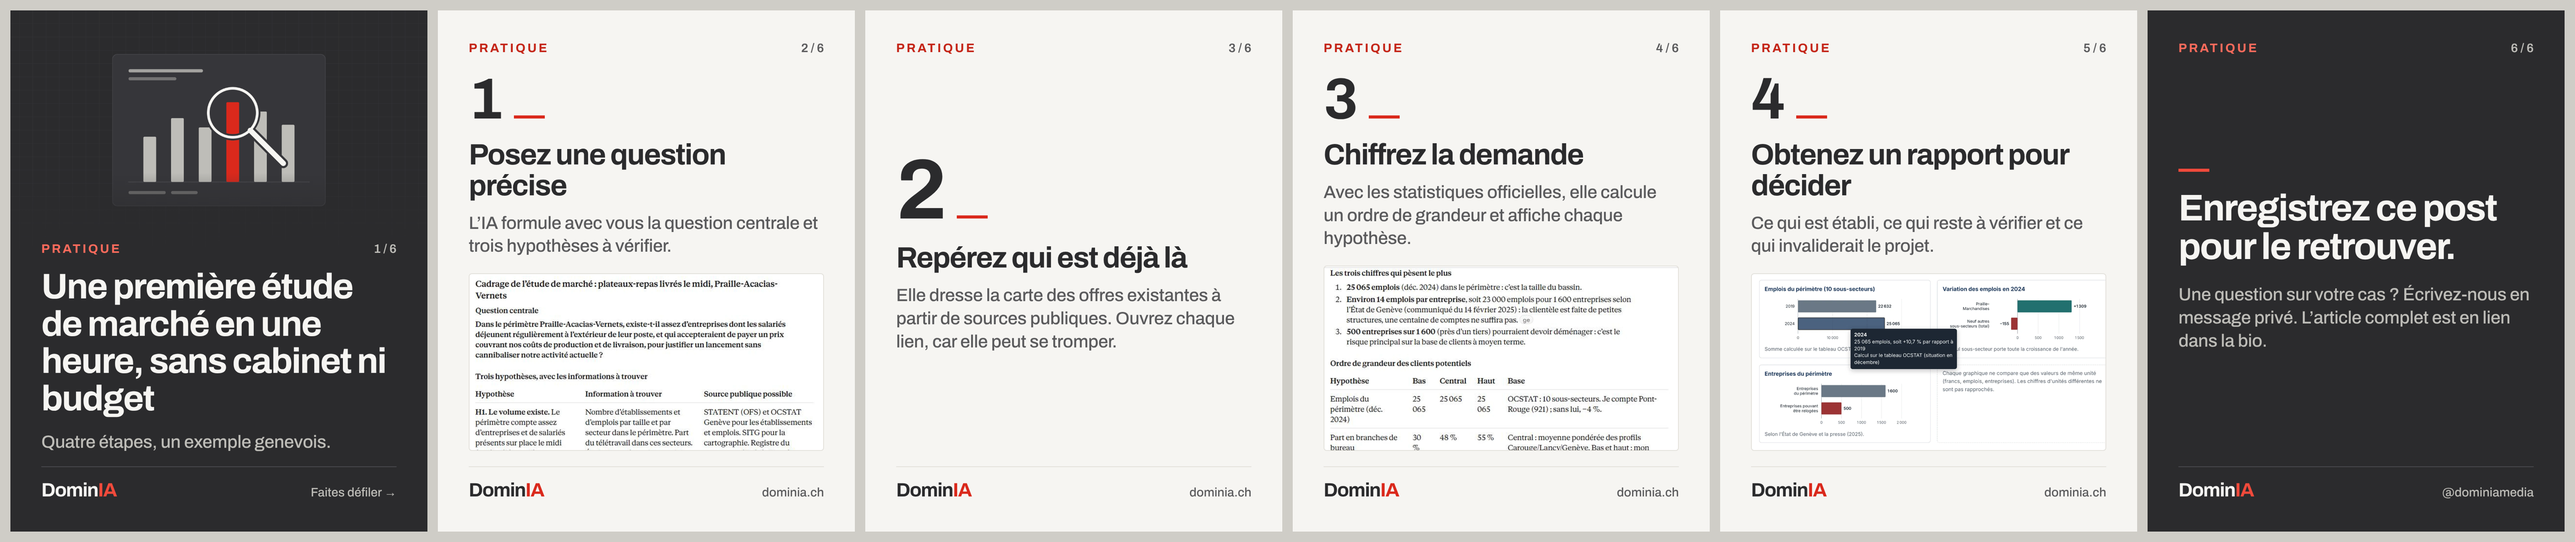
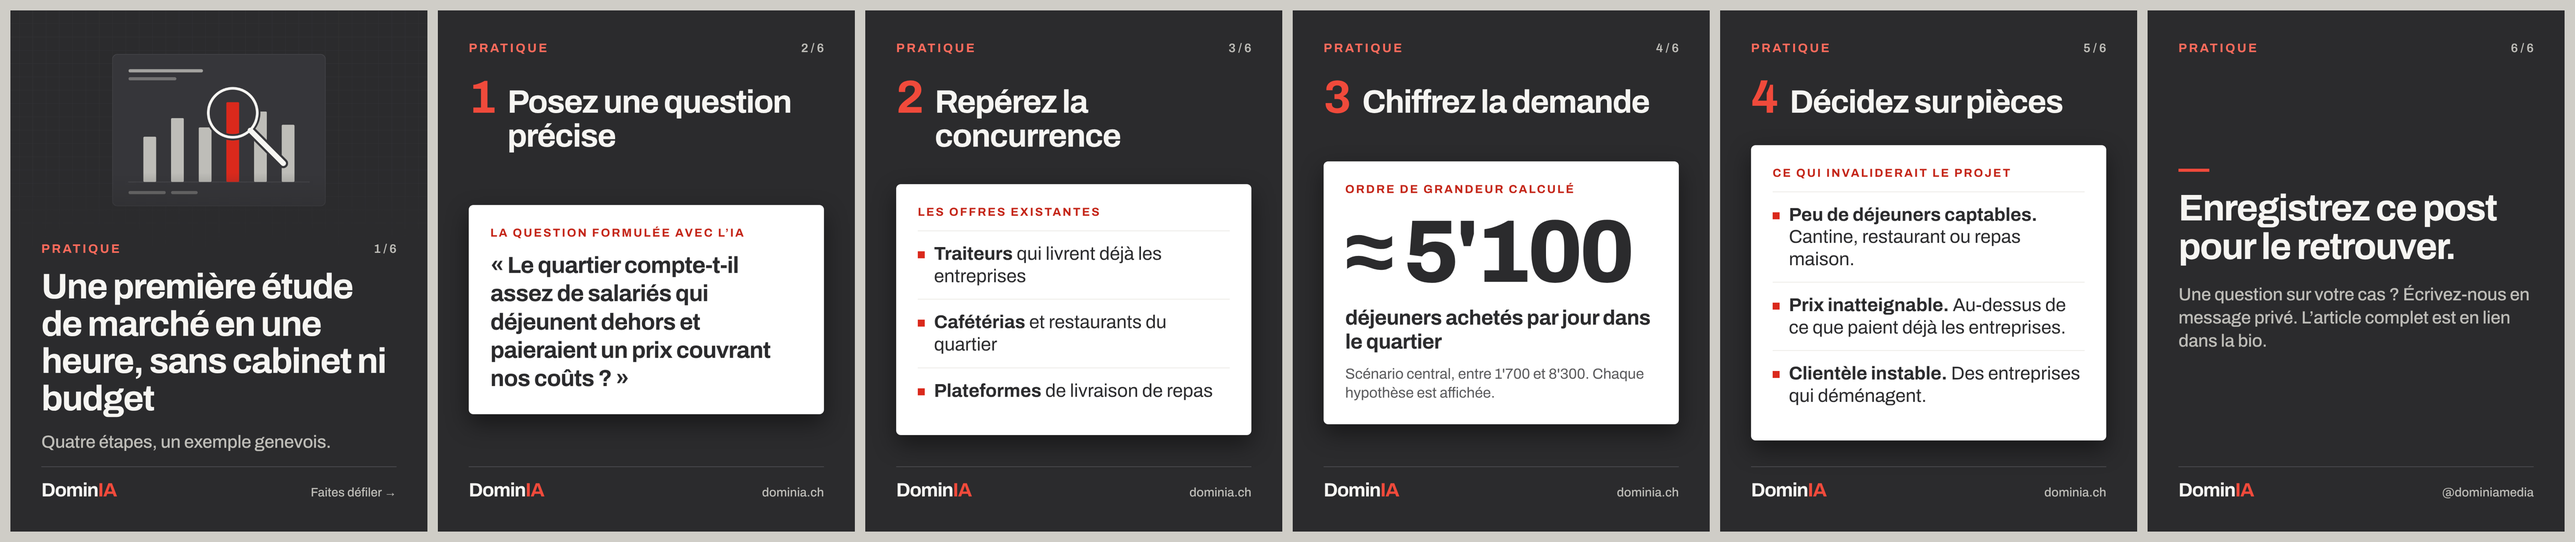
Carrousel étude de marché v3 : étapes illustrées par des cartes lisibles
Claude-Session: https://claude.ai/code/session_01QYrK9tD2HXR82baoKRbr2J

diff --git a/gabarits/generer.py b/gabarits/generer.py
@@ -165,13 +165,51 @@ def actualite(v):
     </div>"""
     return page(base(c, w, h), corps), (w, h)
 
-GABARITS = dict(couverture=couverture, etape=etape, fait=fait, fin=fin, cas=cas, agenda=agenda, actualite=actualite)
+def demo(v):
+    """Étape illustrée par une carte claire qui montre ce que produit l'IA (univers sombre).
+    Champs : rubrique, position, total, numero, titre, carte {type, etiquette, ...}
+    carte.type : citation (texte) | liste (elements [{fort, texte}]) | chiffre (valeur, legende, detail) | image (chemin, recadrage [x0,y0,x1,y1])"""
+    c = SOMBRE; w, h = 1080, 1350
+    k = v["carte"]; t = k["type"]
+    if t == "citation":
+        contenu = f"<div style='font-size:60px;line-height:1.22;font-weight:700;letter-spacing:-.02em'>« {e(k['texte'])} »</div>"
+    elif t == "liste":
+        contenu = "".join(f"<div style='display:flex;gap:24px;padding:30px 0;border-top:2px solid #ECEBE7'><div style='width:18px;height:18px;margin-top:22px;flex:none;background:#DA291C'></div><div style='font-size:48px;line-height:1.2'><b style='font-weight:700'>{e(x['fort'])}</b> {e(x.get('texte',''))}</div></div>" for x in k["elements"])
+    elif t == "chiffre":
+        contenu = f"<div style='font-size:230px;font-weight:800;letter-spacing:-.04em;line-height:1'>{e(k['valeur'])}</div><div style='font-size:54px;font-weight:700;margin-top:24px;line-height:1.15;letter-spacing:-.015em'>{e(k['legende'])}</div><div style='font-size:38px;color:#5A5A5C;margin-top:28px;line-height:1.3'>{e(k.get('detail',''))}</div>"
+    else:
+        contenu = f"<img src='{img(k['chemin_recadre'])}' style='display:block;width:100%;border-radius:4px'>"
+    corps = f"""<div class='cadre'>
+      {tete(v, v['rubrique'], v.get('position'))}
+      <div style='display:flex;align-items:baseline;gap:32px;margin-top:56px'>
+        <div class='titre' style='font-size:120px;line-height:.9;color:{c['rouge']}'>{e(v['numero'])}</div>
+        <div class='titre' style='font-size:{tt(v['titre'],84,72,60)}px'>{e(v['titre'])}</div>
+      </div>
+      <div class='milieu'>
+        <div style='background:#FFFFFF;color:#2B2B2D;border-radius:12px;padding:56px 56px;box-shadow:0 24px 60px rgba(0,0,0,.45)'>
+          <div style='font-size:30px;font-weight:700;letter-spacing:.14em;text-transform:uppercase;color:#C42518;margin-bottom:32px'>{e(k['etiquette'])}</div>
+          {contenu}
+        </div>
+      </div>
+      {pied(c)}
+    </div>"""
+    return page(base(c, w, h), corps), (w, h)
+
+GABARITS = dict(demo=demo, couverture=couverture, etape=etape, fait=fait, fin=fin, cas=cas, agenda=agenda, actualite=actualite)
 
 async def main(spec, sortie):
     global RACINE
     RACINE = spec.resolve().parent
     sortie.mkdir(parents=True, exist_ok=True)
     visuels = json.loads(spec.read_text())["visuels"]
+    from PIL import Image
+    for i, v in enumerate(visuels, 1):
+        k = v.get("carte", {})
+        if k.get("type") == "image":
+            src = pathlib.Path(k["chemin"]); src = src if src.is_absolute() else RACINE / src
+            im = Image.open(src).convert("RGB")
+            if k.get("recadrage"): im = im.crop(tuple(k["recadrage"]))
+            dst = ICI / f".recadre-{i}.png"; im.save(dst); k["chemin_recadre"] = str(dst)
     async with async_playwright() as p:
         nav = await p.chromium.launch(executable_path="/usr/bin/google-chrome", args=["--no-sandbox", "--allow-file-access-from-files"])
         for i, v in enumerate(visuels, 1):
@@ -185,6 +223,7 @@ async def main(spec, sortie):
                 print(f"ATTENTION {nom} : le texte déborde, raccourcir")
             print(sortie / nom)
             await pg.close(); tmp.unlink()
+            if v.get('carte',{}).get('chemin_recadre'): pathlib.Path(v['carte']['chemin_recadre']).unlink()
         await nav.close()
 
 if __name__ == "__main__":
